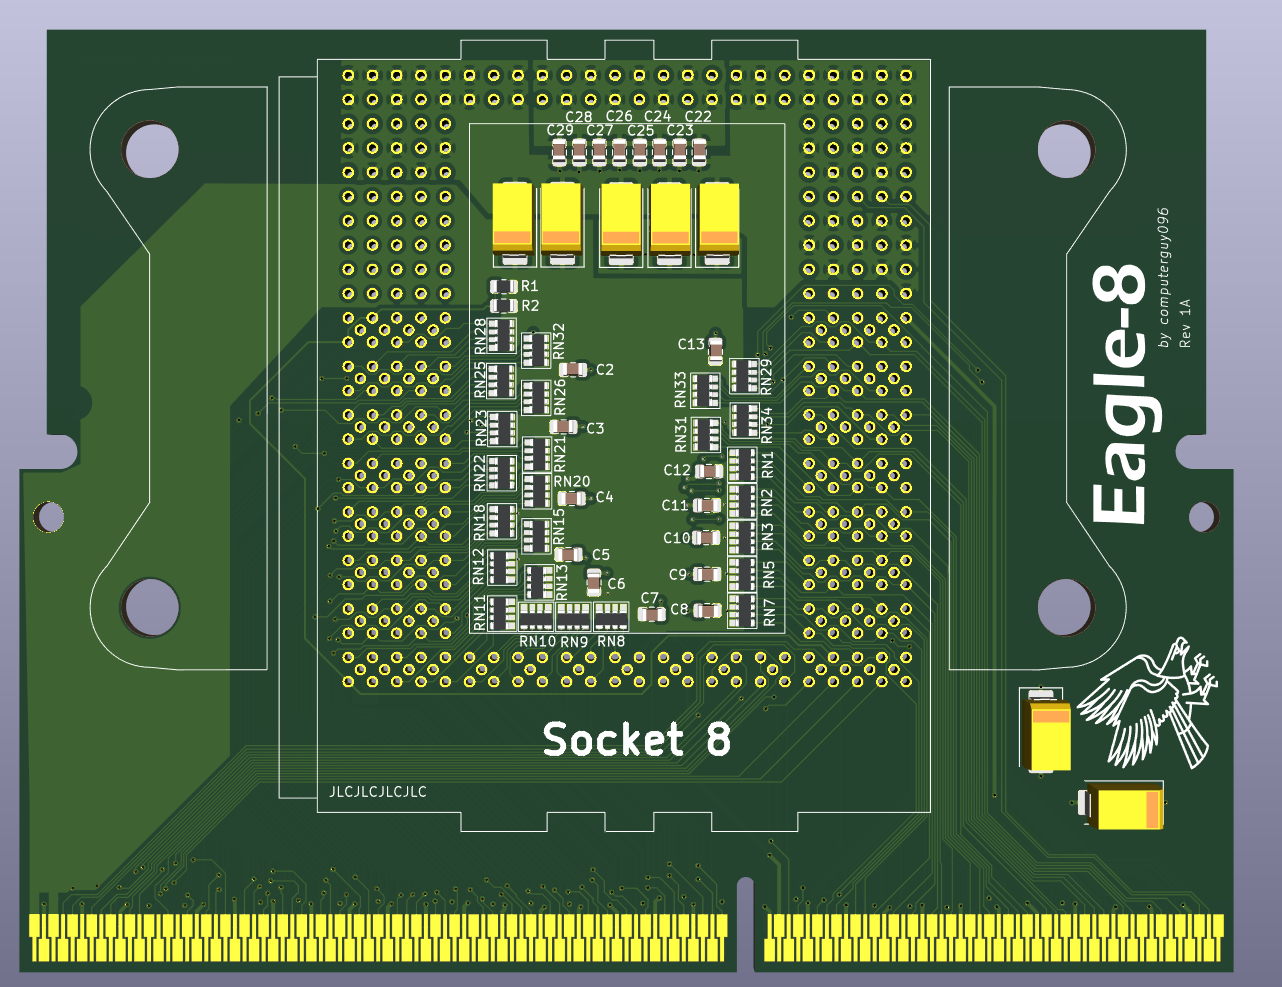
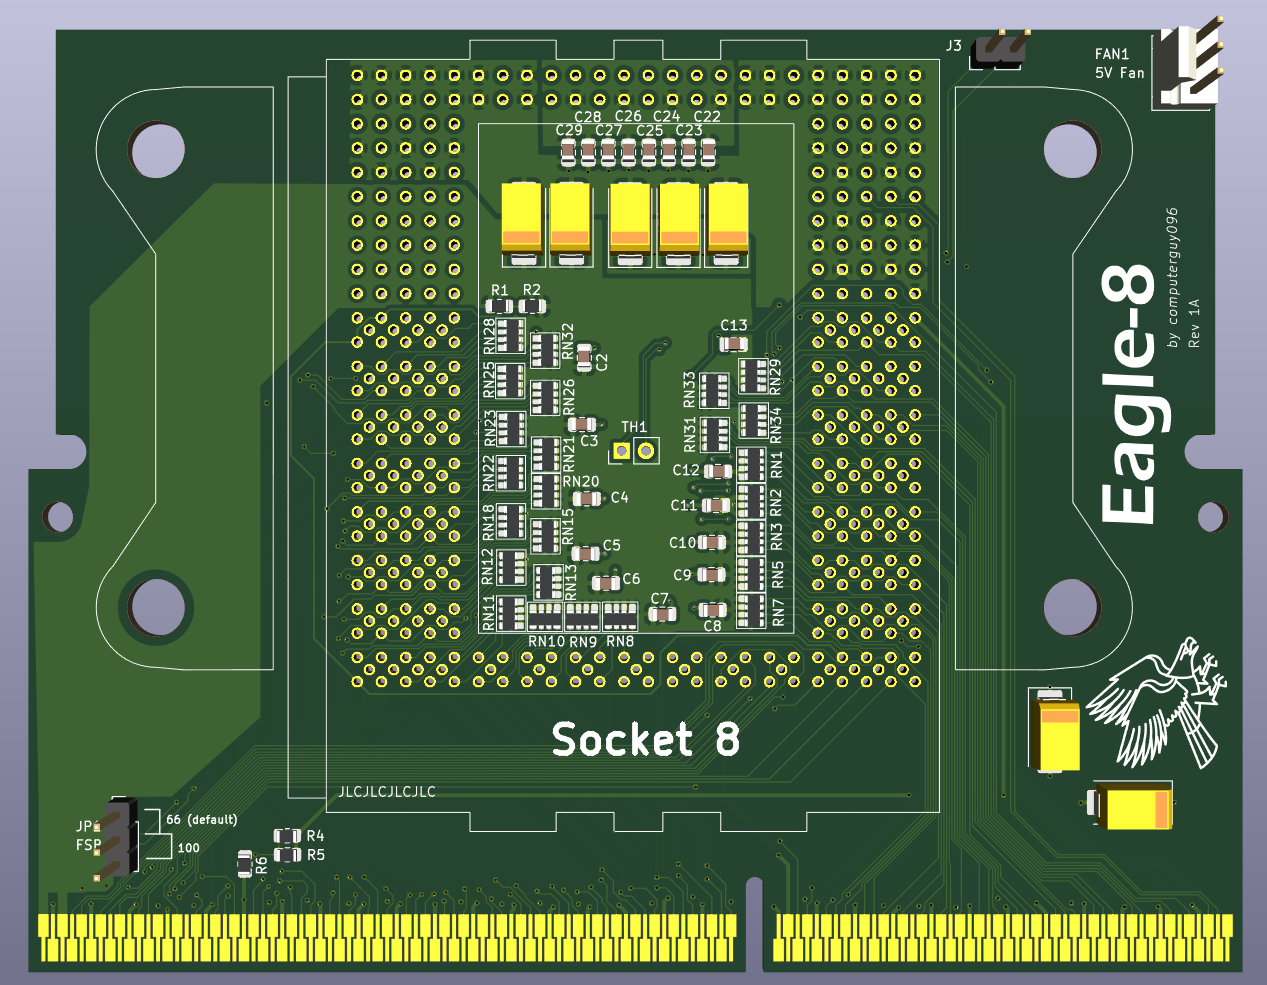
updated readme

Changed region(s): [[0.0, 0.0, 0.985, 1.0], [0.0923, 0.5178, 0.1231, 0.5482]]

diff --git a/README.md b/README.md
@@ -1,7 +1,17 @@
 # Eagle-8: Pentium Pro for affordable boards
 
-This is a Socket 8 to Slot 1 adapter (so called "slotket") which allows you to install Pentium Pro CPUs in Slot 1 motherboards. This project was mainly started because of the Socket 8 boards scarcity and limitations (expensive boards, no AGP bus, limited to EDO memory, etc) and being tired of having to deal with those boards. 
+This is a Socket 8 to Slot 1 adapter (so called "slotket") which allows you to install Pentium Pro CPUs in Slot 1 motherboards. This project was mainly started because of the Socket 8 boards scarcity and limitations (no AGP bus, limited to EDO memory, etc) and being tired of having to deal with them. 
 
 ![Eagle-8 rev 1A PCBs](images/front.png)
 
-Of course, you will need to have a compatible BIOS which contains the necesary microcodes and patches, in order to make use of the CPU.
+Features:
+- AM3 bracket holes + 3D printed spacer (modern AM3 CPUs sit lower than the Pentium Pro, so it has to be adapted)
+- spot for an optional NTC thermistor located right under the CPU package; it is connected to the J3 header at the top
+- spot for an optional 3-pin fan header, fed from the +5V pin in the Slot 1 connector
+- FSB jumper with the option to run the slotket at 100MHz bus speed
+
+There is an interactive HTML BOM which you can find [here](kicad/bom/ibom.html)
+
+Support is experimental at the moment. The slotket will run on most boards with a Pentium II Overdrive CPU, because it is based on the Deschutes core.
+
+However, as of now only 440FX based Slot 1 boards will run this slotket out of the box with a Pentium Pro. This is because most newer boards either lack Pentium Pro microcodes and/or have bugged BIOSes which freeze upon CPU speed detection. A few select ASUS boards received experimental patched BIOSes, which were kindly provided by Deniz Özmen on his [website](https://oezmen.eu/bios/), though keep in mind your mileage may vary.
